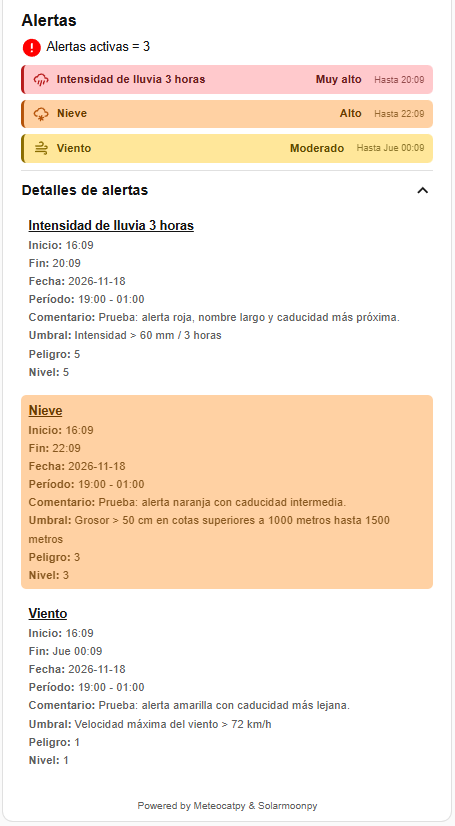
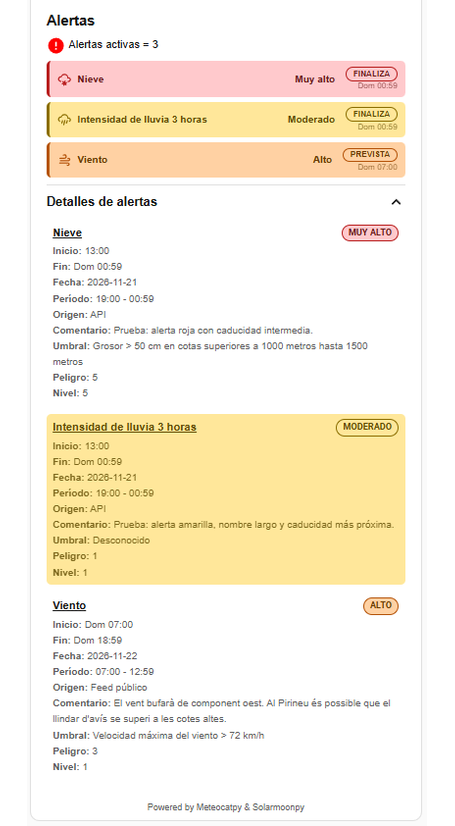
docs: refresh alert and forecast screenshots

diff --git a/README.md b/README.md
@@ -394,6 +394,10 @@ fade_duration: 0.3
 
 ![Meteocat Card daily forecast without alerts](images/daily_forecast_no_alerts.png)
 
+![Meteocat Card daily forecast with one alert](images/daily_forecast_1_alert.png)
+
+![Meteocat Card daily forecast with three alerts](images/daily_forecast_3_alerts.png)
+
 #### Hourly Forecast:
 
 ![Meteocat Card hourly forecast without alerts](images/houryly_forecast_no_alerts.png)
